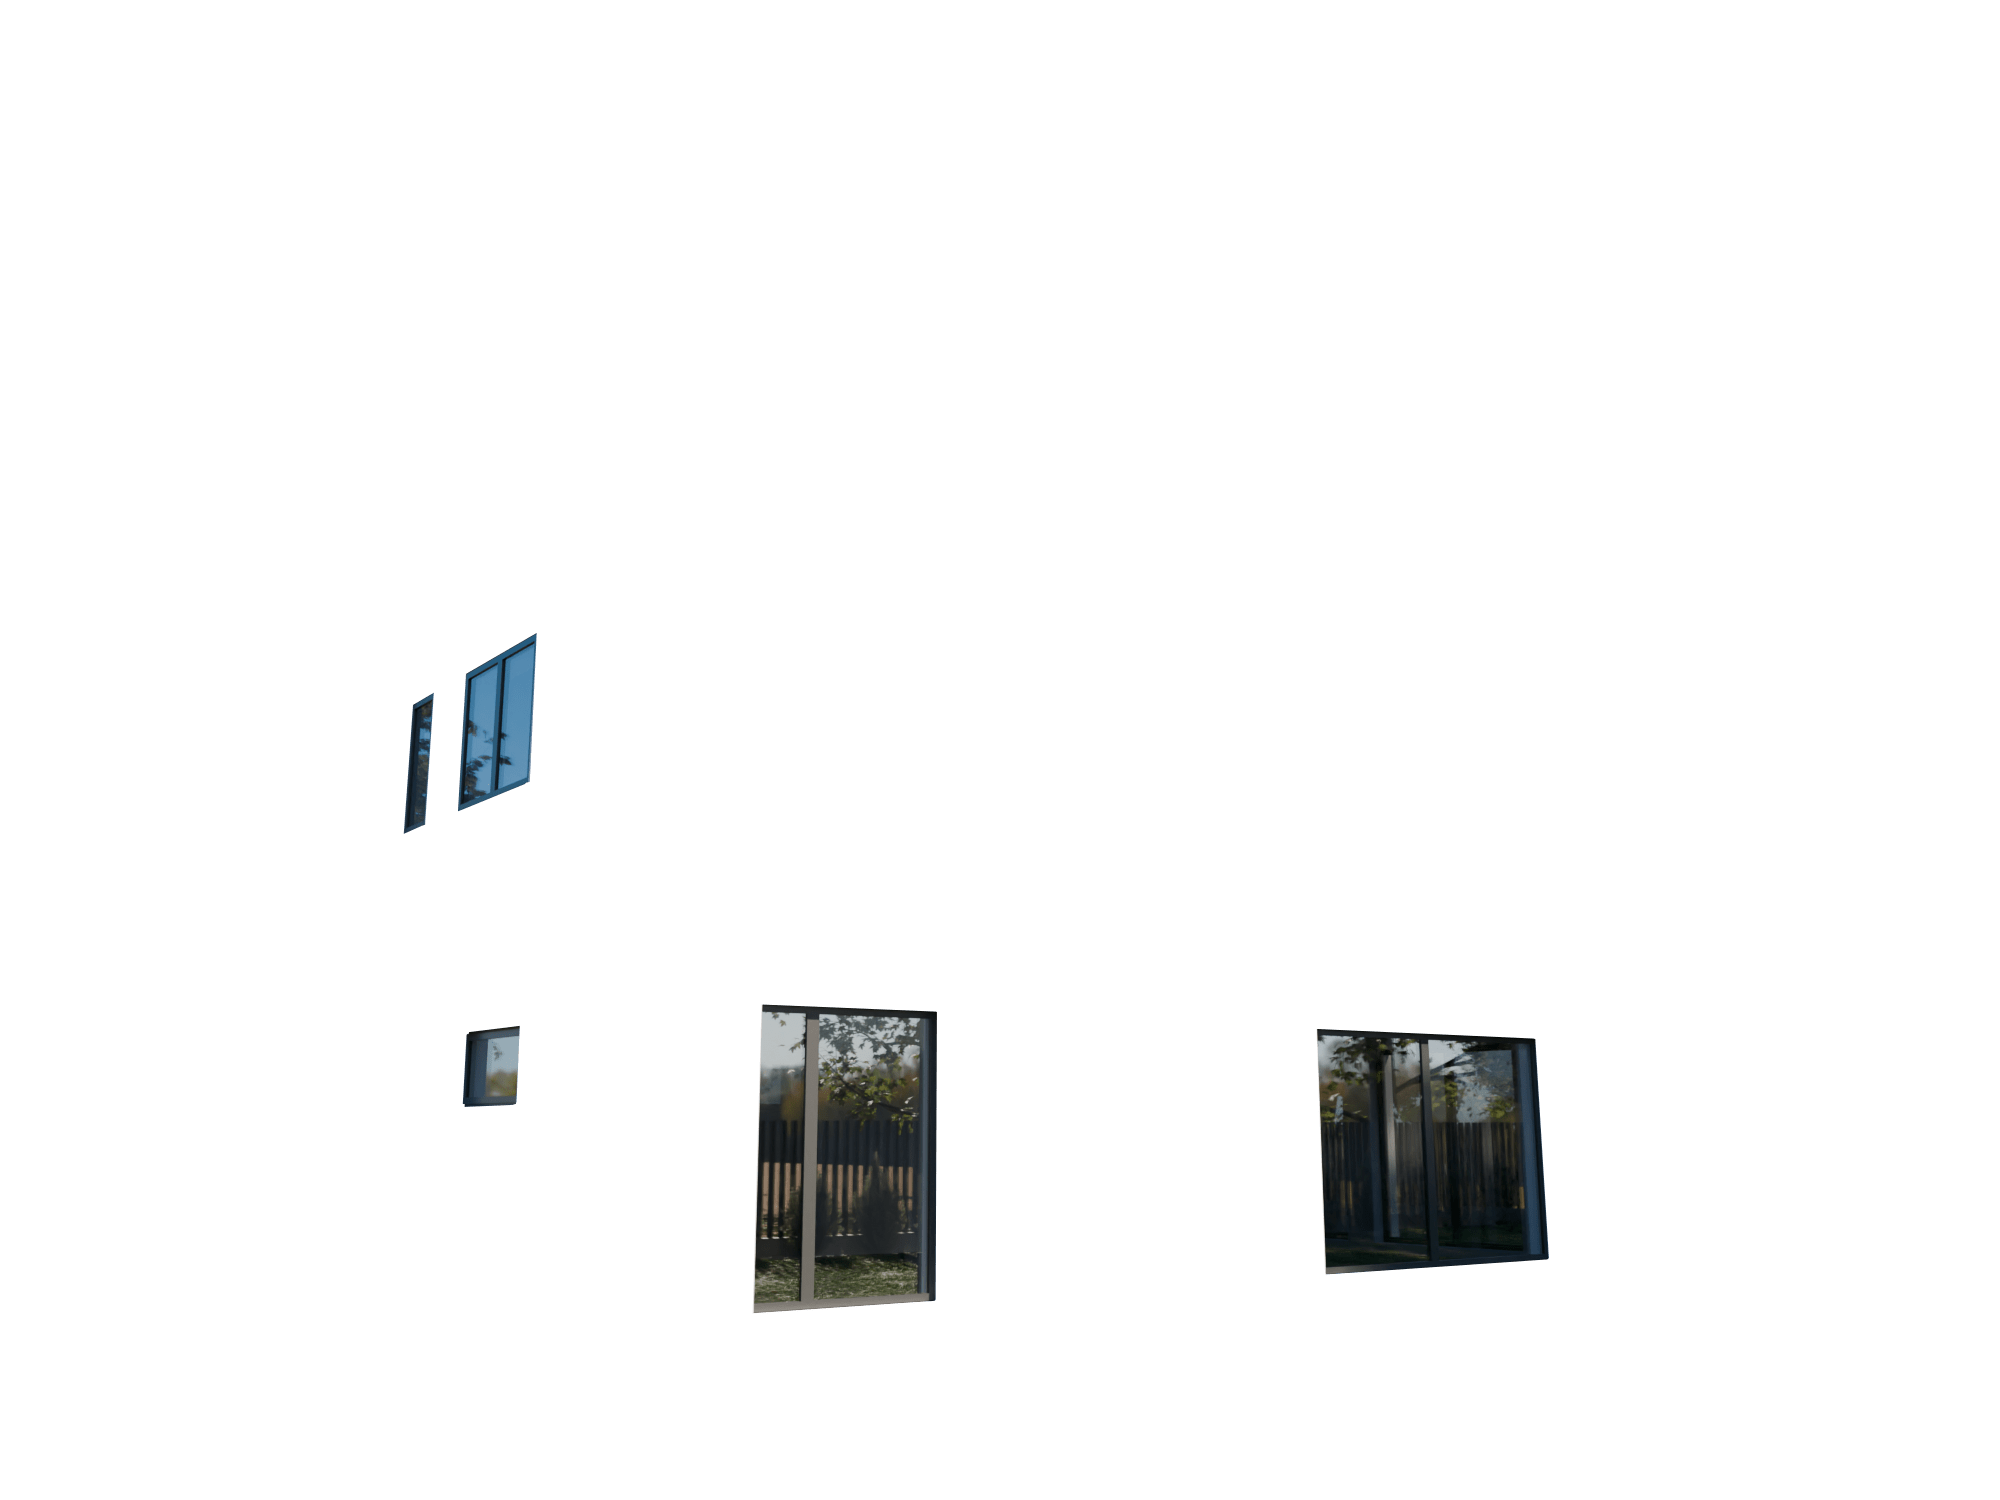
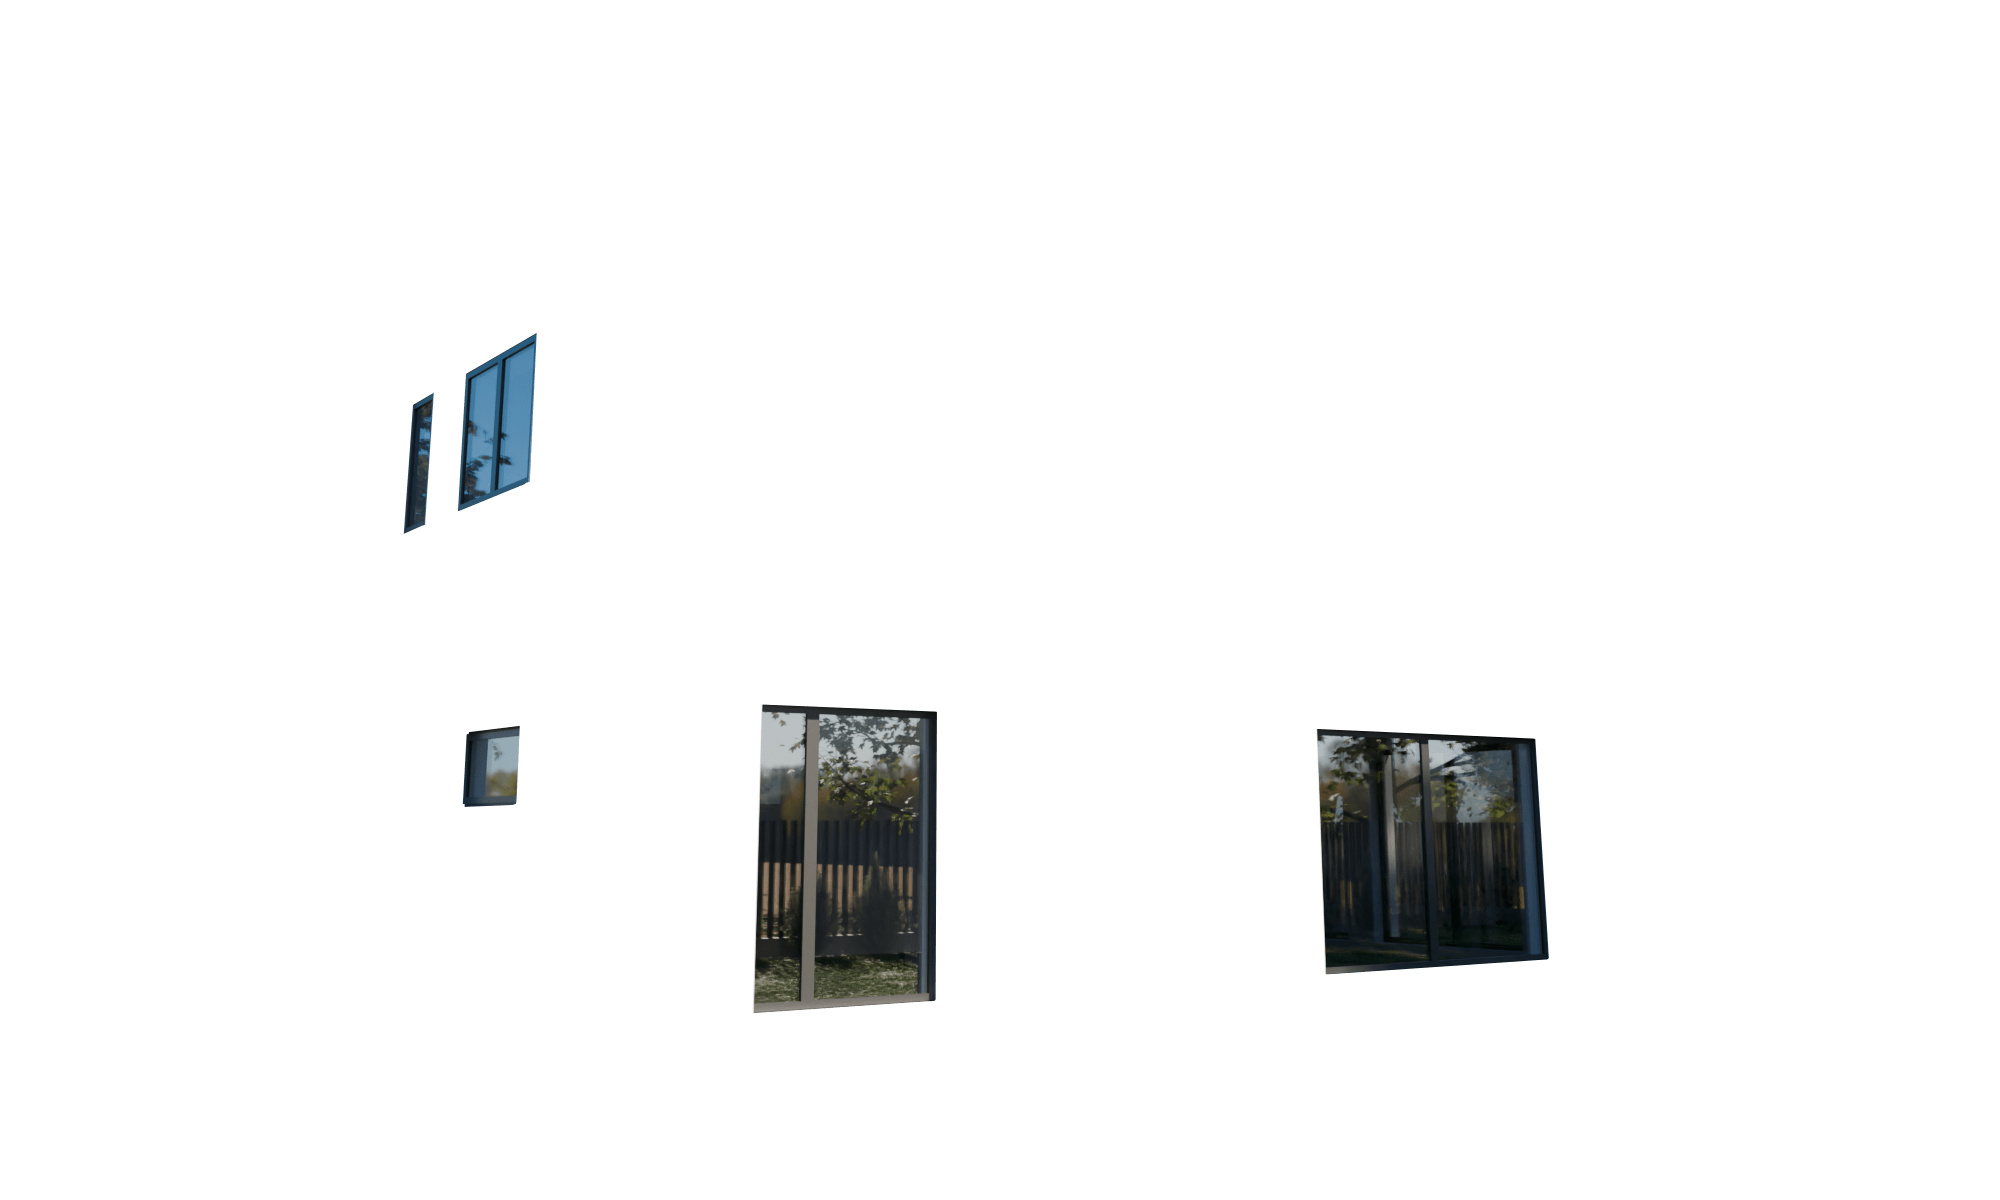
images fix

diff --git a/src/app/components/configurator/configurator.component.scss b/src/app/components/configurator/configurator.component.scss
@@ -112,12 +112,16 @@
         pointer-events: none;
       }
 
+      #modelbutton {
+        position: unset;
+      }
+
       img {
         position: absolute;
         object-fit: cover;
         width: 100%;
-        height: auto;
-        object-position: center center;
+        height: 100vh;
+        object-position: top;
       }
 
       .btn-3d {

diff --git a/src/app/components/configurator/configurator.component.html b/src/app/components/configurator/configurator.component.html
@@ -289,7 +289,7 @@
       />
 
       <div class="btn-3d" (click)="load3DView()">
-        <img src="assets/3dviewpng_flat.png" alt="" />
+        <img id="modelbutton" src="assets/3dviewpng_flat.png" alt="" />
         <p>Widok 3D</p>
       </div>
     </div>
